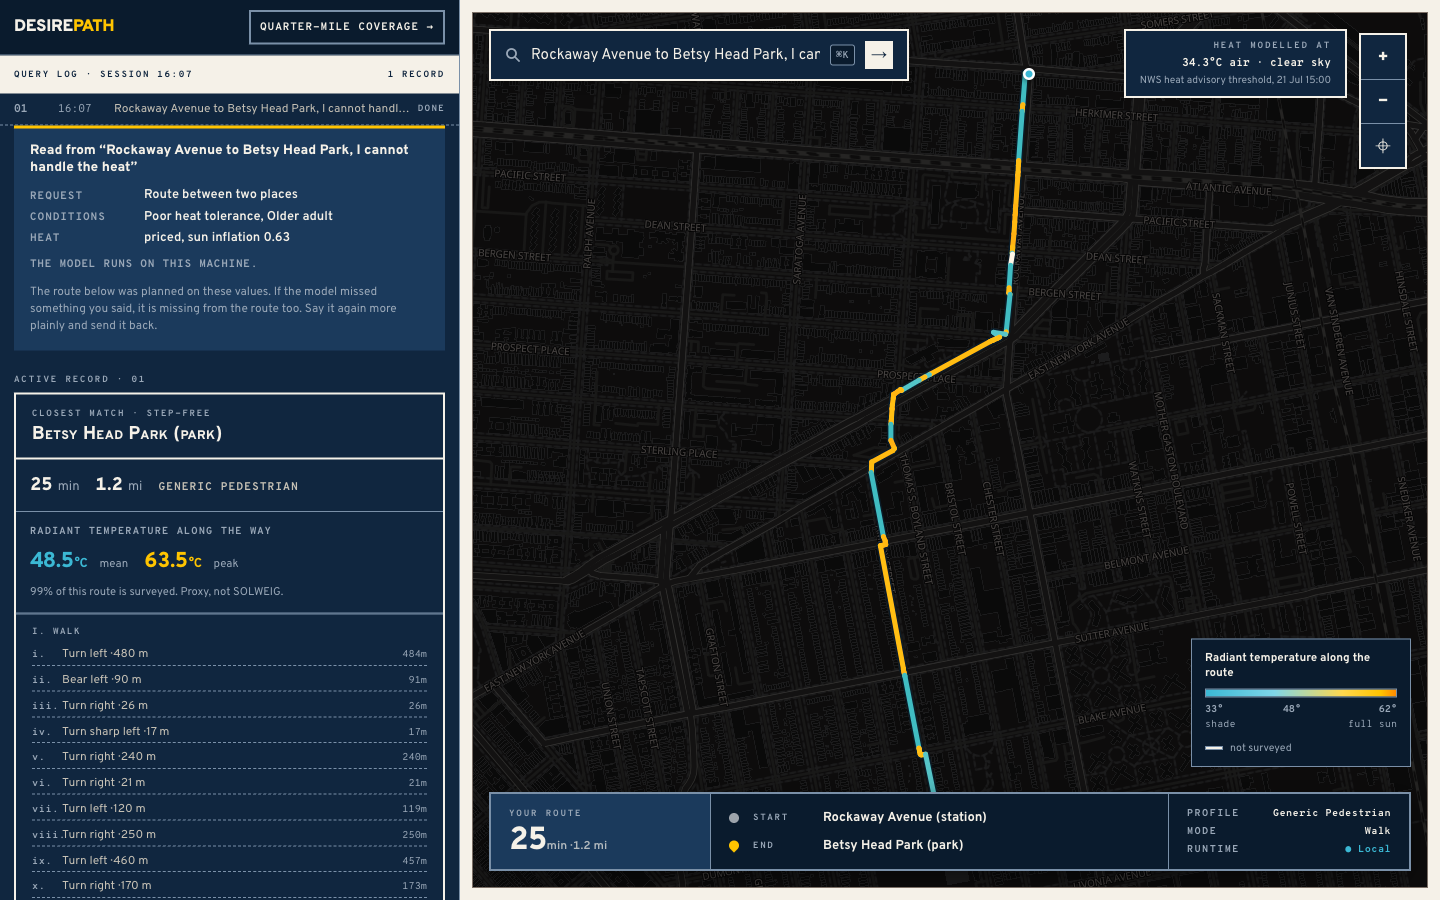
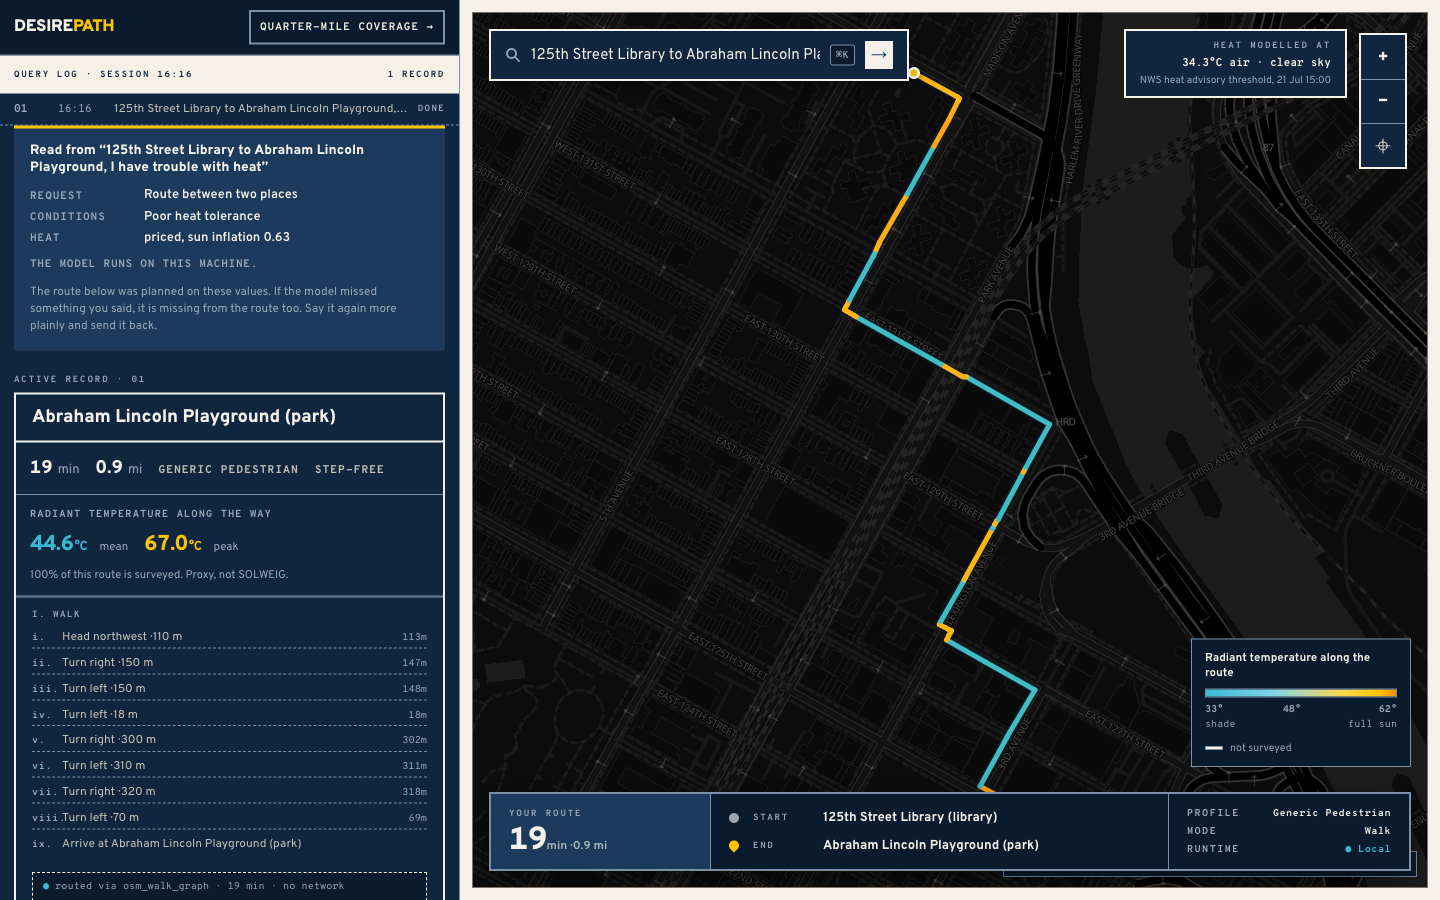
Lead with example queries that actually cross surveyed ground
Every one of the eleven example queries, in both lists, ran outside all five
neighbourhoods the thermal model covers. So the feature the project exists to
demonstrate never appeared unless somebody happened to type a Brownsville
address, and the first thing a visitor saw was "not surveyed". That is the app
telling the truth, and it is still a demo that hides its own subject.

Four heat-showing queries now lead both lists, taken from tests/thermal-cases
so they are the same pairs the regression battery checks rather than names
invented for a screenshot. Verified: East Harlem 44.6 C mean and 100%
surveyed, Mott Haven 96%, Tremont 100%.

The originals are kept, below, because they exercise multimodal routing,
reachability and Spanish, and because showing the honest empty state is worth
doing on purpose rather than by accident.

diff --git a/app/src/lib/components/SearchBar.svelte b/app/src/lib/components/SearchBar.svelte
@@ -4,10 +4,27 @@
   let focused = $state(false);
   let inputEl: HTMLInputElement;
 
-  // Demo queries verified end-to-end against Granite 4.0 1B + the live router.
-  // Top three are the locked demo trio; the next three diversify across
-  // multimodal routing, isochrone reachability, and cross-river ADA transit.
+  // Demo queries verified end-to-end against Granite 4 and the live router.
+  //
+  // ORDER MATTERS. The thermal model covers five neighbourhoods, 7.67% of the
+  // city's edges, and every one of the original six examples ran outside all
+  // of them. So the feature this whole project is about never appeared unless
+  // somebody happened to type a Brownsville address, and the first thing a
+  // visitor saw was "not surveyed".
+  //
+  // The first four now run inside surveyed ground and are drawn from
+  // tests/thermal-cases.json, so the route comes back painted by radiant
+  // temperature. The rest are the original examples, kept because they
+  // exercise multimodal routing, reachability and Spanish, and because
+  // showing the honest empty state is worth doing on purpose rather than by
+  // accident.
   const SUGGESTIONS = [
+    // Inside the thermal model. These show the heat layer working.
+    "Rockaway Avenue to Betsy Head Park, I can't handle the heat",
+    '125th Street Library to Abraham Lincoln Playground, I have trouble with heat',
+    'Mott Haven Library to Governor Smith Playground, manual wheelchair',
+    'Cooling centers within 15 minutes of Tremont Library, I walk slowly',
+    // Outside it. These show the model saying so.
     "I'm in downtown Flushing. Show me cooling centers within walking distance, wheelchair-accessible.",
     "I'm at Union Square. Closest public restroom with audible signals on the route.",
     'Estoy en Jackson Heights, Roosevelt y 74. ¿Dónde está el centro de enfriamiento más cercano?',

diff --git a/app/src/lib/components/ExampleQueries.svelte b/app/src/lib/components/ExampleQueries.svelte
@@ -1,7 +1,15 @@
 <script lang="ts">
   import { queryInput } from '$lib/stores/query-log';
 
+  // Heat-showing examples first. The thermal model covers five neighbourhoods,
+  // and all five of the originals ran outside every one of them, so the first
+  // thing anybody clicking down this list saw was "not surveyed". The
+  // originals are kept below, because the empty state is worth showing on
+  // purpose.
   const EXAMPLES = [
+    "Rockaway Avenue to Betsy Head Park, I can't handle the heat",
+    '125th Street Library to Abraham Lincoln Playground, I have trouble with heat',
+    'Mott Haven Library to Governor Smith Playground, manual wheelchair',
     "it's 95 degrees out, I'm near Penn Station with a power wheelchair. Find me a cooling center",
     'step-free route from Grand Central to Atlantic Terminal, manual wheelchair',
     'nearest cooling center to 161 Amsterdam Avenue, wheelchair',
